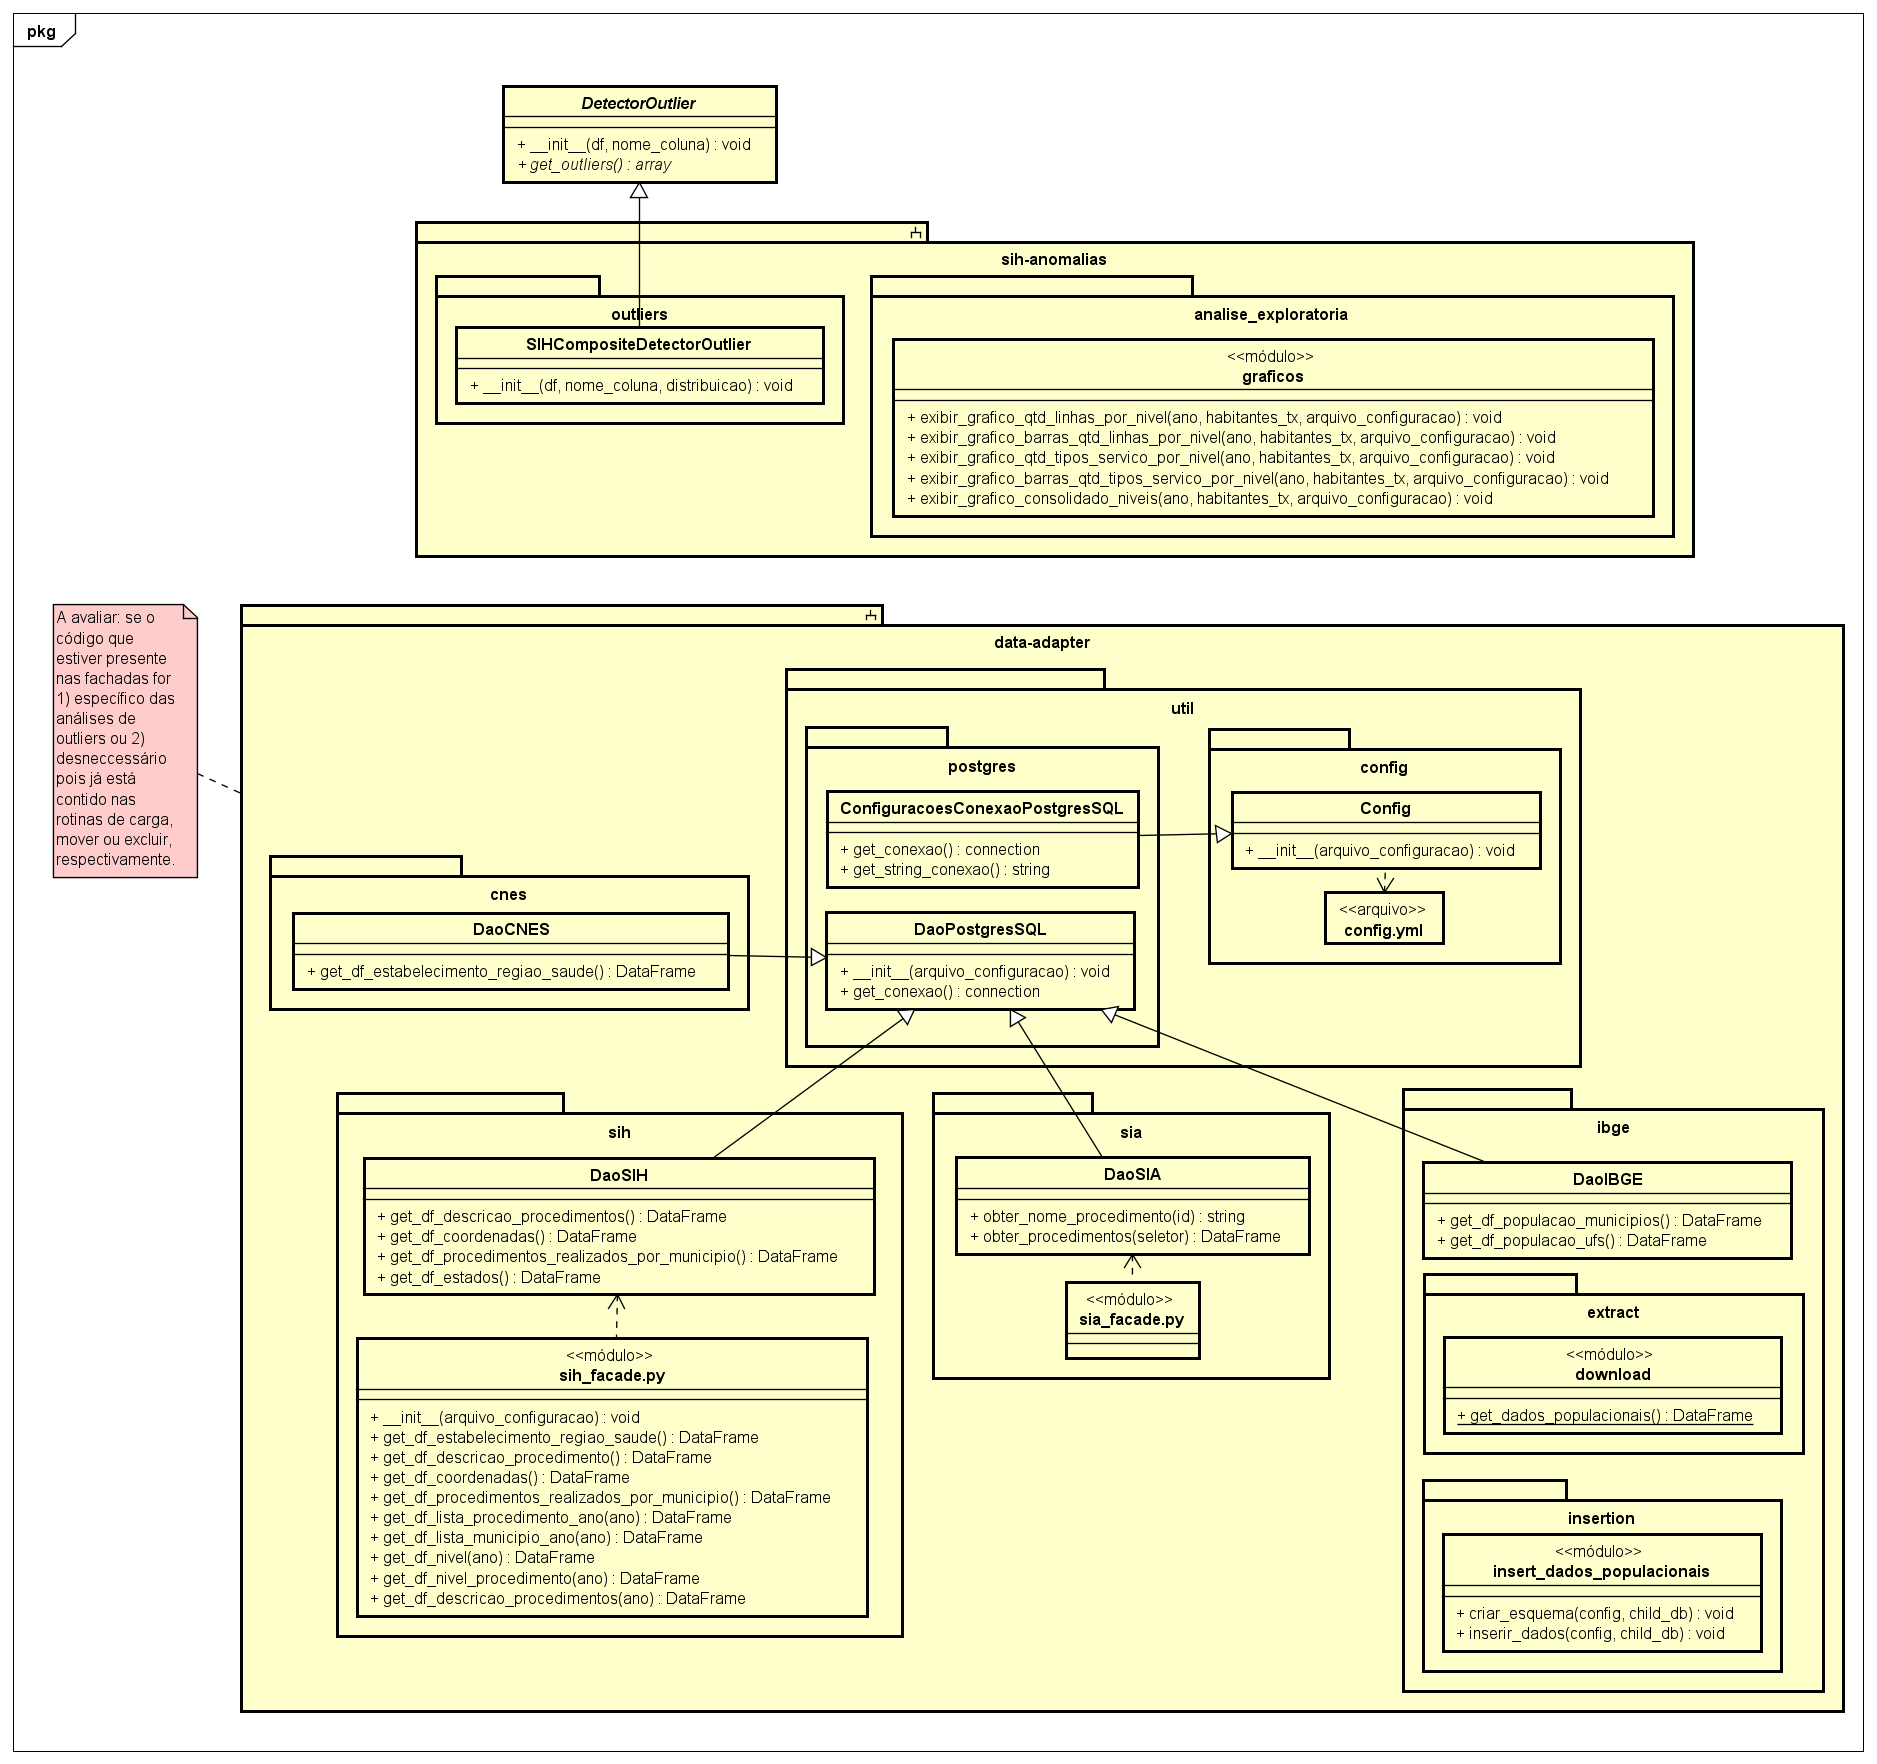
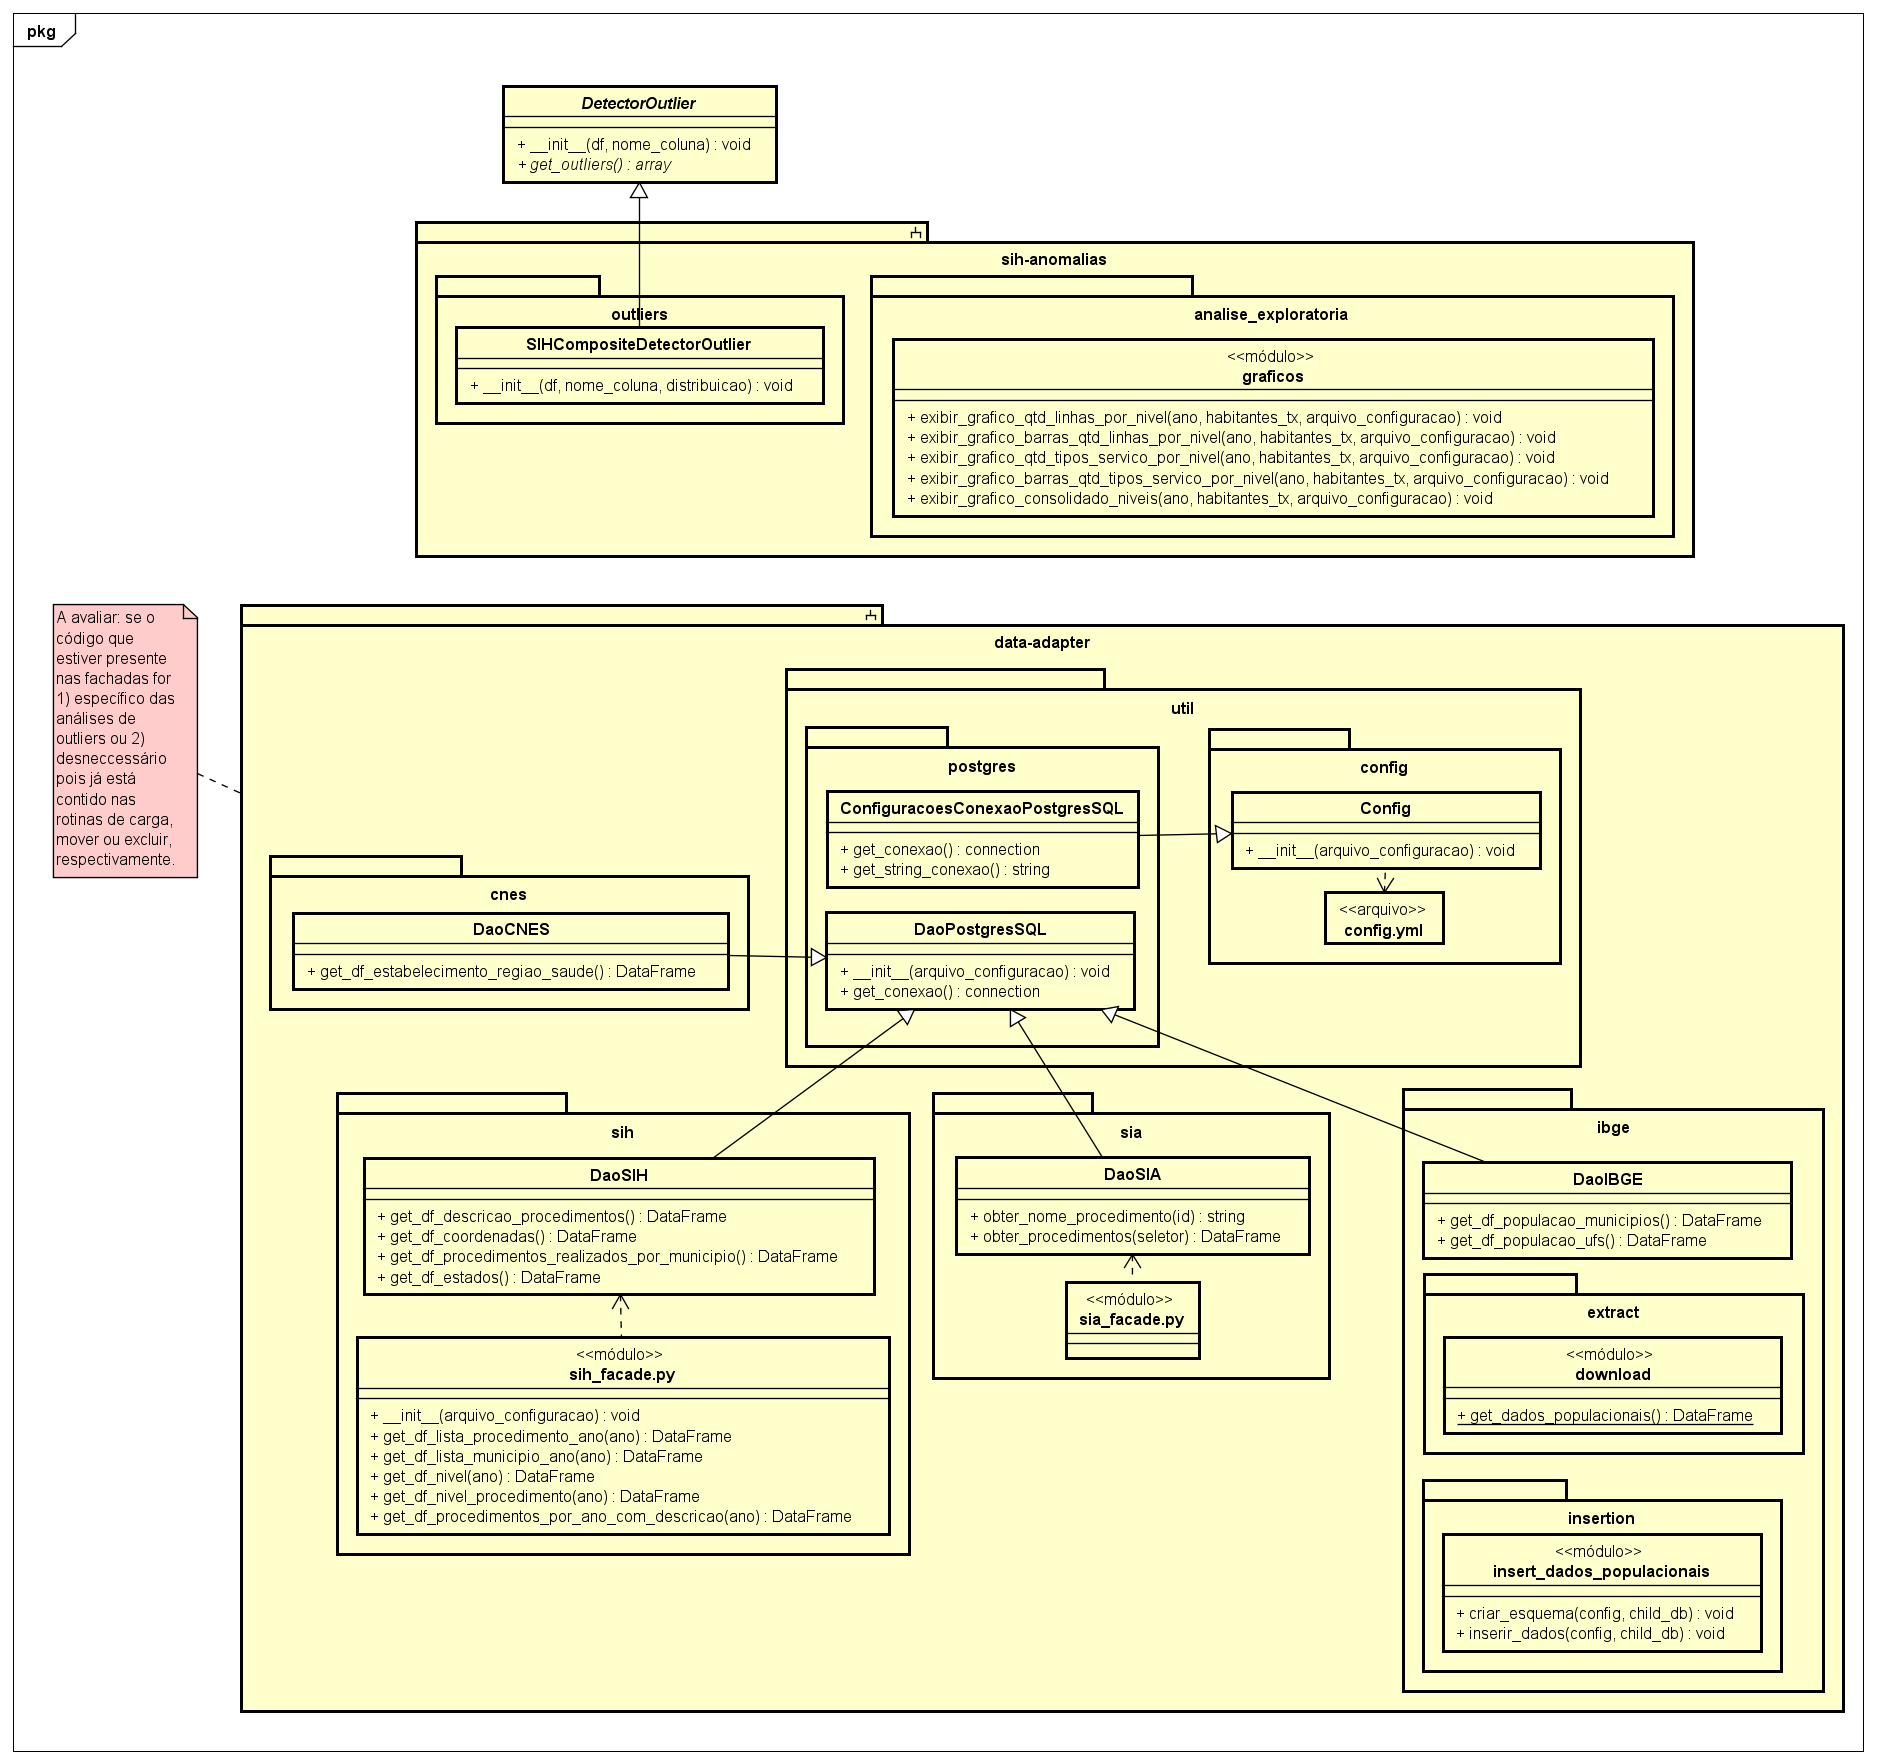
refactorings diversos

Changed region(s): [[0.1854, 0.6548, 0.4944, 0.9354]]

diff --git a/pegasus/data-adapter/sih/sih_facade.py b/pegasus/data-adapter/sih/sih_facade.py
@@ -2,6 +2,8 @@ from sih.dao_sih import DaoSIH
 from ibge.ibge_facade import IBGEFacade
 import pandas as pd
 from sih.configuracoes import ConfiguracoesAnalise
+import time
+import sys
 
 class SIHFacade:
     def __init__(self, arquivo_configuracao):
@@ -123,22 +125,46 @@ class SIHFacade:
 
         return df_nivel_proc
 
-    def get_df_descricao_procedimentos(self, ano):
+    #TODO: Otimizar.  Esta consulta está levando horas...
+    def __get_df_descricao_procedimentos(self, ano):
+        start_time = time.time()
         df_proc_ano_analise = self.__get_df_procedimentos_por_ano(ano)
+        print("self.__get_df_procedimentos_por_ano(ano): --- %s seconds ---" % (time.time() - start_time))
+
         df_procedimentos_analise = pd.DataFrame(columns=['PROCEDIMENTO'],
                                                 data=df_proc_ano_analise['PROCEDIMENTO'].unique())
 
+        start_time = time.time()
         df_descricao_procedimento = self.dao.get_df_descricao_procedimentos()
+        print("self.dao.get_df_descricao_procedimentos(): --- %s seconds ---" % (time.time() - start_time))
+
+        start_time = time.time()
         df_procedimentos_analise['DESCRICAO_COMPLETA'] = df_procedimentos_analise['PROCEDIMENTO'].apply(
             SIHFacade.__get_proc_descricao, df_descricao_procedimento=df_descricao_procedimento)
+        print("SIHFacade.__get_proc_descricao: --- %s seconds ---" % (time.time() - start_time))
+
+        start_time = time.time()
         df_procedimentos_analise['DESCRICAO'] = df_procedimentos_analise['PROCEDIMENTO'].apply(
             SIHFacade.__get_proc_name, df_descricao_procedimento=df_descricao_procedimento)
+        print("SIHFacade.__get_proc_name: --- %s seconds ---" % (time.time() - start_time))
+
+        start_time = time.time()
         df_procedimentos_analise = df_procedimentos_analise.set_index('PROCEDIMENTO')
+        print("df_procedimentos_analise.set_index('PROCEDIMENTO'): --- %s seconds ---" % (time.time() - start_time))
 
         print(df_procedimentos_analise.shape)
         print(df_procedimentos_analise.head())
 
         return df_procedimentos_analise
+
+    def get_df_procedimentos_por_ano_com_descricao(self, ano):
+        df_proc_ano_analise = self.__get_df_procedimentos_por_ano(ano)
+        df_proc_ano_analise = df_proc_ano_analise.join(self.__get_df_descricao_procedimentos(ano), on=['PROCEDIMENTO'])
+
+        print(df_proc_ano_analise.shape)
+        print(df_proc_ano_analise.head())
+
+        return df_proc_ano_analise
 
     @staticmethod
     def __get_proc_descricao(procedimento, df_descricao_procedimento):
@@ -146,7 +172,7 @@ class SIHFacade:
 
         # Obtendo nome do procedimento
         df_proc = df_descricao_procedimento[df_descricao_procedimento['PROCREA_ID'].str.startswith(procedimento)]
-        if (len(df_proc) > 0):
+        if len(df_proc) > 0:
             _procedimento = df_proc.iloc[0]
             # (nível de grupo)
             if (len_proc in (2, 4, 6, 10)):
@@ -228,8 +254,7 @@ class SIHFacade:
 
 
 if __name__ == '__main__':
-    # TODO: Mudar para que o arquivo de configuração possa ser passado por linha de comando
-    arquivo_configuracao = input('Arquivo de configuração de acesso a dados:')
+    arquivo_configuracao = sys.argv[1]
 
     fachada = SIHFacade(arquivo_configuracao)
-    fachada.get_df_descricao_procedimentos(2014)
+    fachada.get_df_procedimentos_por_ano_com_descricao(2014)

diff --git a/pegasus/data-adapter/util/config/configuracoes.py b/pegasus/data-adapter/util/config/configuracoes.py
@@ -2,6 +2,6 @@ import yaml
 
 class Config:
     def __init__(self, arquivo_configuracao='config.yml'):
-        with open(arquivo_configuracao, "r") as ymlfile:
+        with open(arquivo_configuracao, "r", encoding="utf8") as ymlfile:
             self.cfg = yaml.load(ymlfile)
 
